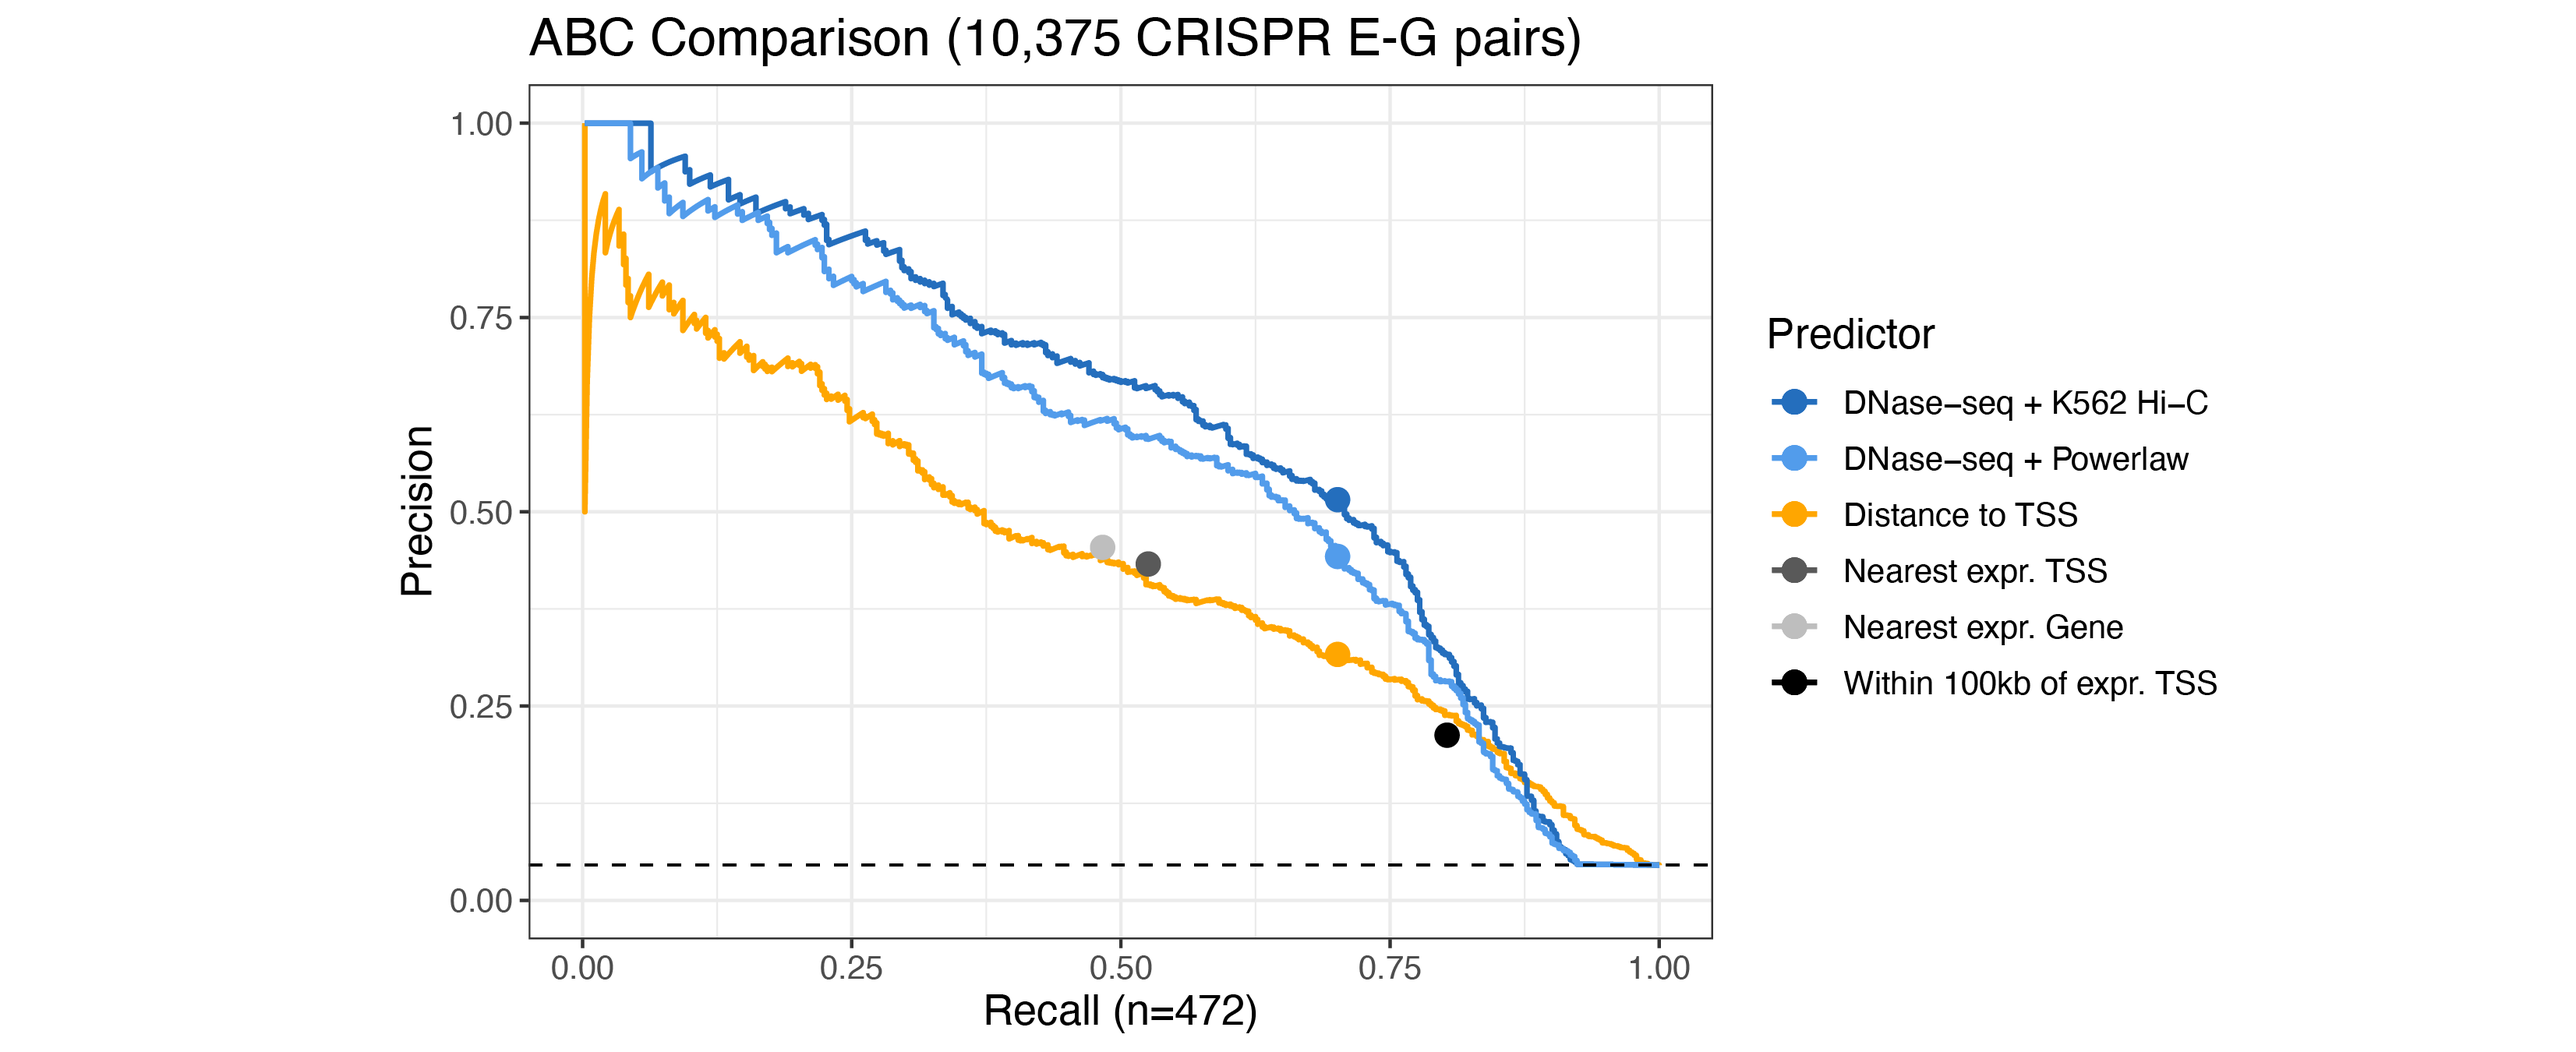
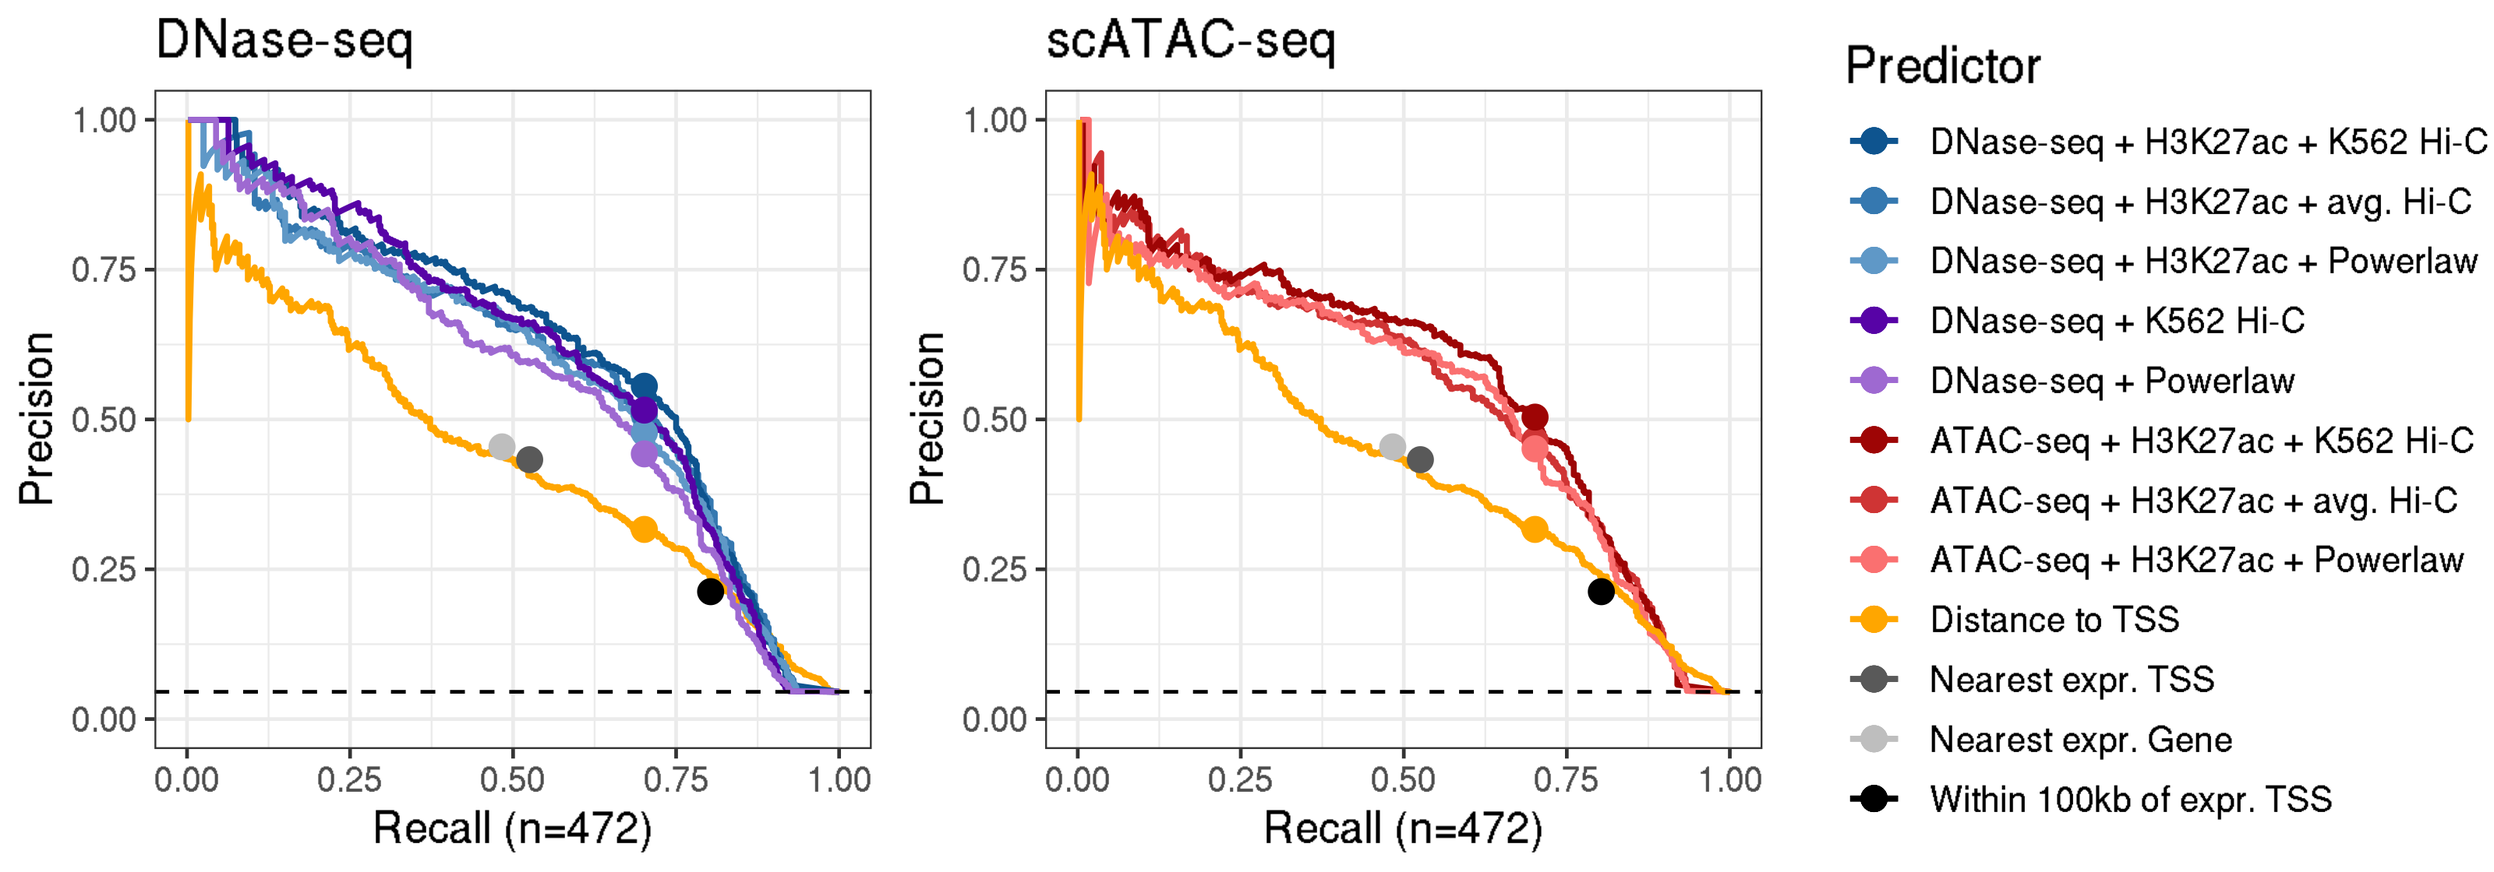
Update detailed methods documentation (#166)
Add more predictors to precision-recall-curve (section 4) and threshold table (section 5). Implement use of .csv file to store table contents.

diff --git a/docs/usage/methods.rst b/docs/usage/methods.rst
@@ -84,7 +84,7 @@ Maya do you ahve a figure showing GWAS performance as a function of window size?
 ------------------------------
 Description: 
 	- To define the candidate regions, for genome-wide analyses, we retain the top 150,000 peaks with the most read counts. A fixed number is chosen here because the numbers of peaks called vary with sequencing depths, but imprically we discovered that picking the peaks with the most reads counts can effectively remove the noise coming from weak peaks and variable sequencing quality. Additionally, the number of total peaks also affect the denominator of ABC score calculation; a fixed number of peaks also make ABC scores comparable across inputs of variable sequencing qualities and depths. For genome-wide analyses, 150K is a reasonable number because ENCODE analysis has previously estimated `a mean of 205,109 DHSs per cell type <https://www.nature.com/articles/nature11247>`, the majority of which are enhancers. 
-  
+
 1.4. Defining and adding gene promoters
 ^^^^^^^^^^^^^^^^^^^^^^^^^^^^
 Finally, we force the inclusion of gene promoters in the set of candidate elements, to include
@@ -308,19 +308,21 @@ Other considerations:
 
 ABC scores are computed for all generated candidate elements within 5Mb of the considered
 candidate target genes (GeneList.txt). For each element-pair, the activity of the element is
-multiplied by the 3D contact value between the element and the promoter. 3D contact can be
-calculated using different approaches. The highest performance can be achieved by using cell-type
-specific Hi-C data. If such data are unavailable, average Hi-C contact across cell typed (described
-in `Nasser et al., 2021 <https://www.nature.com/articles/s41586-021-03446-x>`_) or an approximation
-of 3D contact via a powerlaw function (described in
+multiplied by the 3D contact value between the element and the promoter. 3D contact values can be
+calculated using different approaches and we achieved the highest performance by using cell-type
+specific Hi-C data. If Hi-C isn't available for the cell type of interest, average Hi-C contact
+across cell types (described in
+`Nasser et al., 2021 <https://www.nature.com/articles/s41586-021-03446-x>`_) or an approximation of
+3D contact via a powerlaw function (described in
 `Fulco et al., 2019 <https://www.nature.com/articles/s41588-019-0538-0>`_) can be used to calculate
 contact.
 
 Finally, the ABC scores for all element-gene pairs are divided by the sum of all ABC scores for each
 gene, normalizing the sum of ABC scores per gene to 1.
 
-The precision-recall curves below show a comparison of the performance of ABC models using cell-type
-specific Hi-C versus the powerlaw approximation for elements inferred from DNase-seq:
+The precision-recall curves below show a comparison of the CRISPR benchmark performance of ABC
+models using cell-type specific Hi-C versus the powerlaw approximation for elements inferred from
+bulk DNase-seq and single-cell ATAC-seq:
 
 .. image:: /images/abc_perf_comparison.png
 
@@ -355,8 +357,8 @@ Description:
 	    --hic_file https://www.encodeproject.org/files/ENCFF621AIY/@@download/ENCFF621AIY.hic \
 	    --hic_type hic \
 	    --hic_resolution 5000 \
-	    --scale_hic_using_powerlaw			                                                                                                            
-
+	    --scale_hic_using_powerlaw
+	    
 
 5. Interpreting the ABC score
 ------------------------------------
@@ -378,27 +380,11 @@ expression.
 One key consideration when applying ABC to generate maps of enhancer-gene pairs is selecting the
 appropriate ABC score threshold to predict regulatory enhancer-gene interactions. We recommend using
 a threshold that achieves 70% recall in our CRISPR benchmark. A list of thresholds for different
-flavors of ABC models can be found in the table below:
+common ABC models can be found in the table below:
 
-.. list-table::
-  :header-rows: 1
-  :widths: auto
-   
-  * - Activity
-    - Contact
-    - AUPRC
-    - Precision @ 70% recall
-    - Threshold @ 70% recall
-  * - DNase-seq
-    - K562 Hi-C
-    - 0.60
-    - 0.52
-    - 0.024674
-  * - DNase-seq
-    - Powerlaw
-    - 0.56
-    - 0.44
-    - 0.01587
+.. csv-table::
+   :file: /tables/perf_summary.csv
+   :header-rows: 1
     
 Our CRISPR benchmarking pipeline can be used to infer thresholds for non-standard ABC models and is
 available on `Github <https://github.com/EngreitzLab/CRISPR_comparison>`_.
